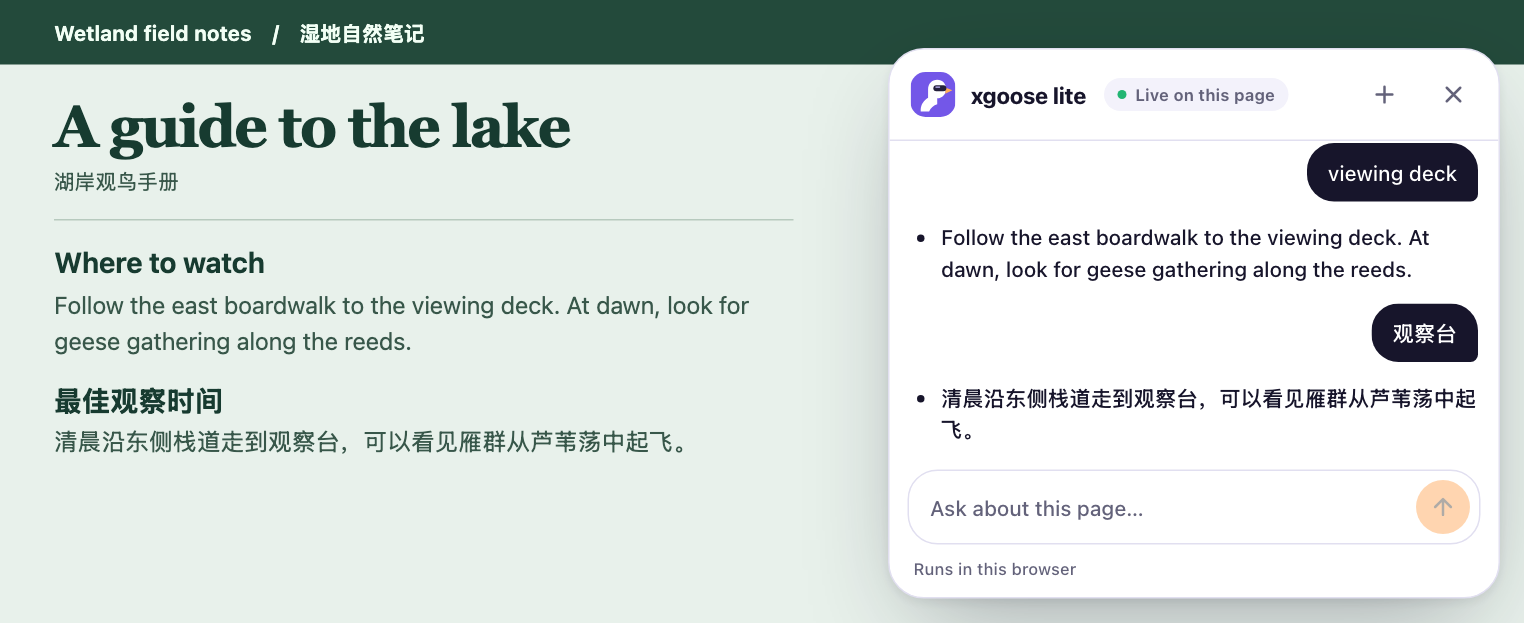
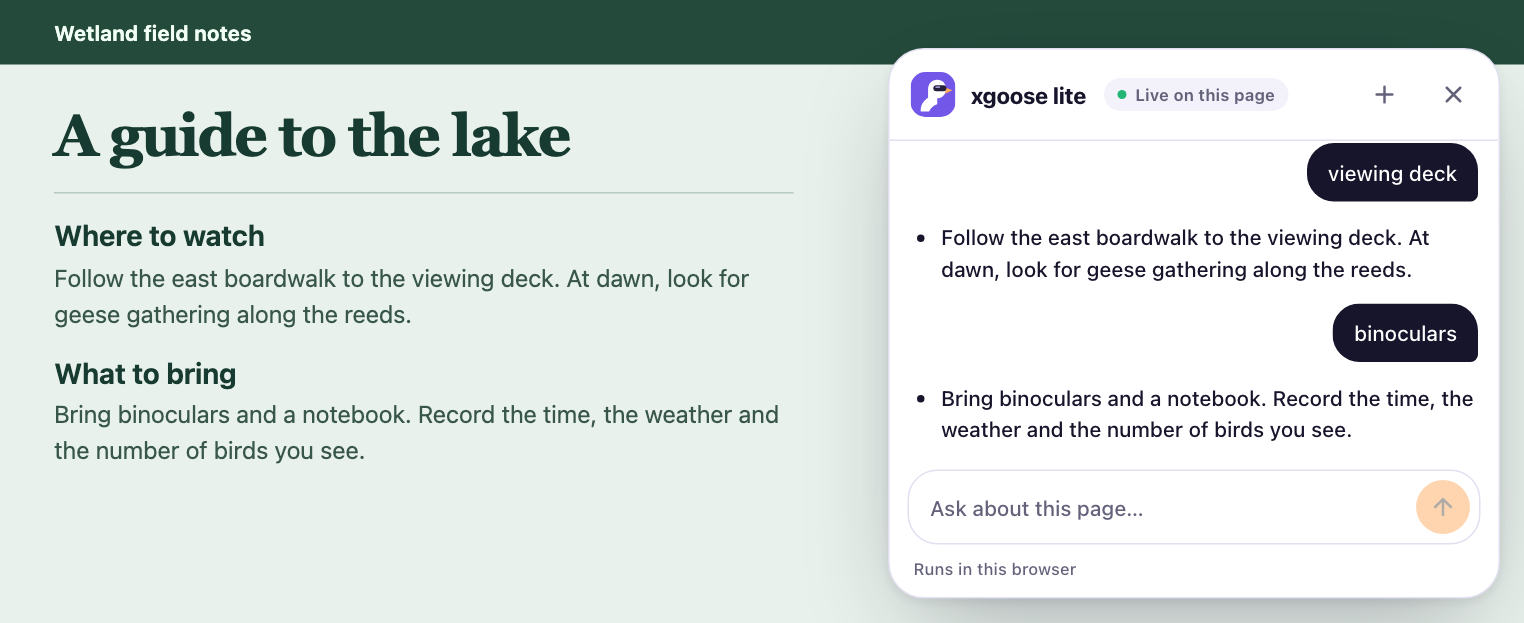
Make English the default and localize each guide’s preview

diff --git a/README.md b/README.md
@@ -4,11 +4,9 @@
 
 Give visitors a little goose that knows its way around your page. Drop it into a field guide and a reader can find the viewing deck. Give it a model and a booking tool, and a visitor can ask which tours still have seats. You choose what the goose can read and what it can do. Visitors just open your website.
 
-给网站添一只认路的小鹅。访客可以用它查找本页内容；接入模型和你的站点工具后，还能直接在页面上提问、办事。[阅读完整中文指南](README.zh-CN.md)
-
 **[Open the configurator](https://xgoose.org/lite/)** · [Default embed script](https://xgoose.org/lite/xgoose-lite.site.js) · [MIT license](LICENSE)
 
-![A bilingual field guide with xgoose lite open. Searching for “viewing deck” and “观察台” finds the matching English and Chinese passages.](docs/page-search.png)
+![The xgoose lite panel finds the viewing deck directions and the binoculars checklist in a field guide.](docs/page-search.png)
 
 ## Try it with one script
 
@@ -18,7 +16,7 @@ Paste this into an HTML page, open **Ask xgoose**, and search for a word on that
 <script defer src="https://xgoose.org/lite/xgoose-lite.site.js"></script>
 ```
 
-To make it yours, open the configurator. Set the name, appearance, greeting and suggested questions. Choose a provider and the page tools you want to enable. Click **下载配置好的 JS** to download the runtime and settings as one file. Put it at the root of your site and use this tag. The configurator preview always runs locally. Your provider choice takes effect on the embedded site. [Configure your assistant](https://xgoose.org/lite/)
+To make it yours, open the configurator. Set the name, appearance, greeting and suggested questions. Choose a provider and the page tools you want to enable. Use the download button at the bottom of the form to save the runtime and settings as one file. Put it at the root of your site and use this tag. The configurator preview always runs locally. Your provider choice takes effect on the embedded site. [Configure your assistant](https://xgoose.org/lite/)
 
 ```html
 <script defer src="/xgoose-lite.site.js"></script>

diff --git a/README.zh-CN.md b/README.zh-CN.md
@@ -6,7 +6,7 @@
 
 **[打开官网配置器](https://xgoose.org/lite/)** · [默认嵌入脚本](https://xgoose.org/lite/xgoose-lite.site.js) · [MIT 许可证](LICENSE)
 
-![在双语观鸟手册中打开 xgoose lite，分别搜索 viewing deck 和「观察台」，助手找到了对应的英文与中文段落。](docs/page-search.png)
+![在观鸟手册中搜索「观察台」和「望远镜」，小鹅分别找到了路线和出行清单。](docs/page-search.zh-CN.png)
 
 ## 一行脚本，先在自己的页面试试
 
